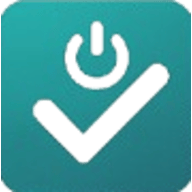
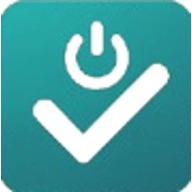
deploy: 20bf5a22f87d1d339f534c6dc476ae21dc636fc4

Changed region(s): [[0.9688, 0.0625, 1.0, 0.9375], [0.0, 0.0625, 0.0312, 0.9375]]

diff --git a/flutter_service_worker.js b/flutter_service_worker.js
@@ -4,10 +4,10 @@ const TEMP = 'flutter-temp-cache';
 const CACHE_NAME = 'flutter-app-cache';
 
 const RESOURCES = {"flutter.js": "f393d3c16b631f36852323de8e583132",
-"icons/Icon-512.png": "43bf0f28d4059624bead2f81867a7cd6",
-"icons/Icon-maskable-512.png": "43bf0f28d4059624bead2f81867a7cd6",
-"icons/Icon-192.png": "af814fa6630788979caeff3620bd4070",
-"icons/Icon-maskable-192.png": "af814fa6630788979caeff3620bd4070",
+"icons/Icon-512.png": "749a1b73a4d48095c0f4d71c41aecdc3",
+"icons/Icon-maskable-512.png": "749a1b73a4d48095c0f4d71c41aecdc3",
+"icons/Icon-192.png": "b7d0ff5b7823c4ae9b65879767374767",
+"icons/Icon-maskable-192.png": "3a808726543f6b7d245925a64d9087ad",
 "manifest.json": "f6d832265b044d4cce7266e13457b9f4",
 "index.html": "d2c1094361e32ff3eb4975c3a53ba8bb",
 "/": "d2c1094361e32ff3eb4975c3a53ba8bb",
@@ -6754,8 +6754,8 @@ const RESOURCES = {"flutter.js": "f393d3c16b631f36852323de8e583132",
 "canvaskit/skwasm.wasm": "9f0c0c02b82a910d12ce0543ec130e60",
 "canvaskit/canvaskit.js.symbols": "48c83a2ce573d9692e8d970e288d75f7",
 "canvaskit/skwasm.js.symbols": "262f4827a1317abb59d71d6c587a93e2",
-"favicon.png": "420fdb2e51fe72257e46974fc23dd57f",
-"flutter_bootstrap.js": "870108d81866af5ece4c12f2651e4a0c",
+"favicon.png": "cd18f13f7bf4351421740058466c578c",
+"flutter_bootstrap.js": "16d9e66fd8d3c1b305398b99d3faeac8",
 "version.json": "76489db1ea6032cc698c4512edd39973",
 "main.dart.js": "28d9b171ae818d5772513d783e3e6b1e"};
 // The application shell files that are downloaded before a service worker can

diff --git a/flutter_bootstrap.js b/flutter_bootstrap.js
@@ -11,6 +11,6 @@ _flutter.buildConfig = {"engineRevision":"db49896cf25ceabc44096d5f088d86414e05a7
 
 _flutter.loader.load({
   serviceWorkerSettings: {
-    serviceWorkerVersion: "1356143452"
+    serviceWorkerVersion: "2206634067"
   }
 });
